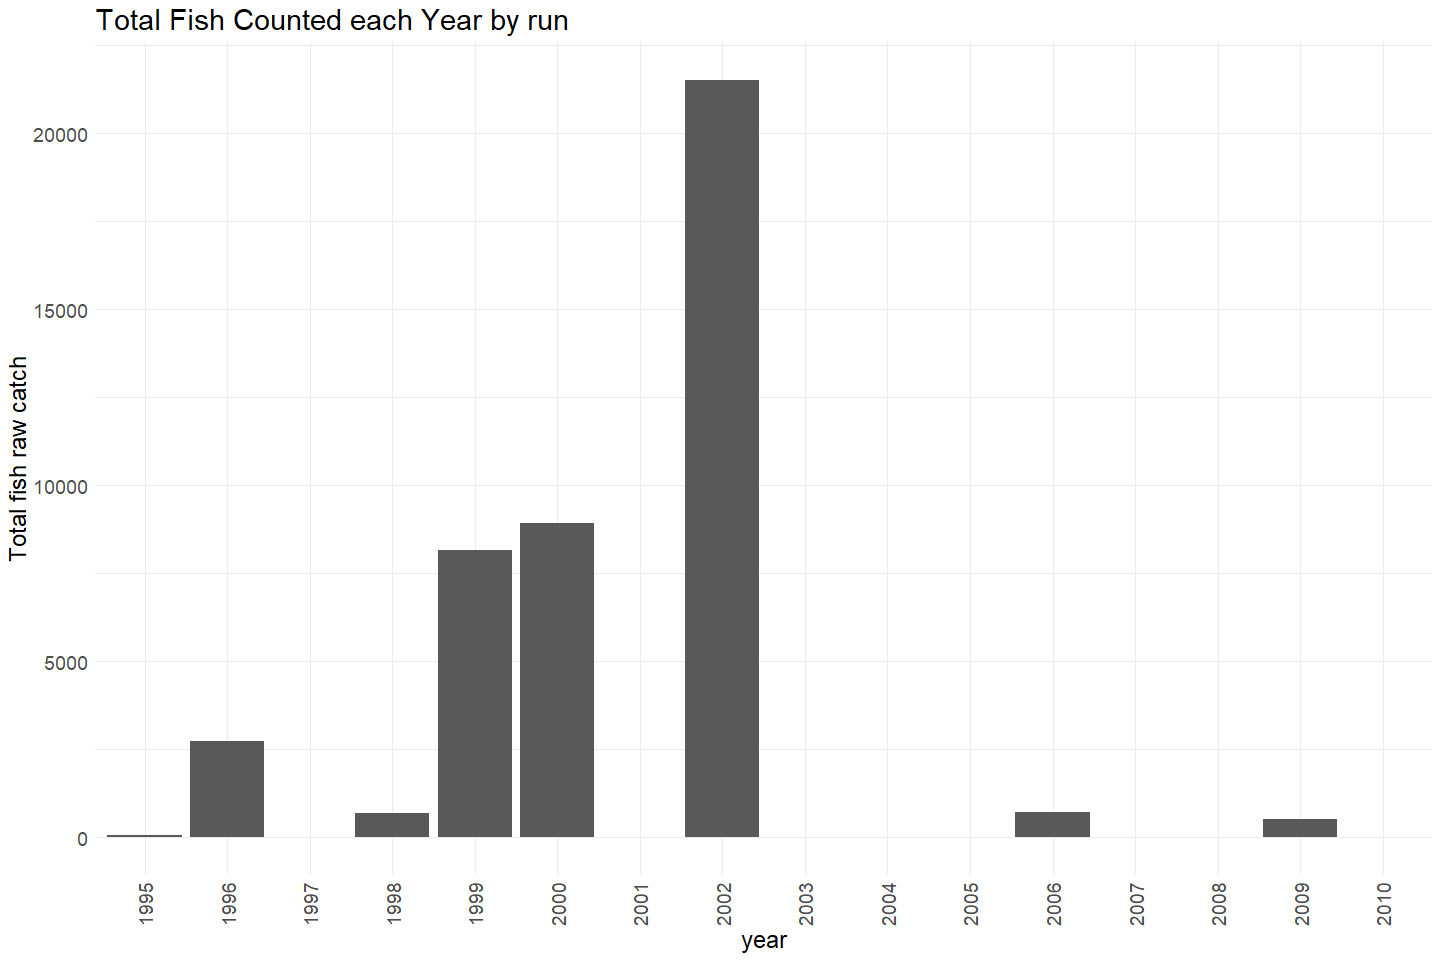
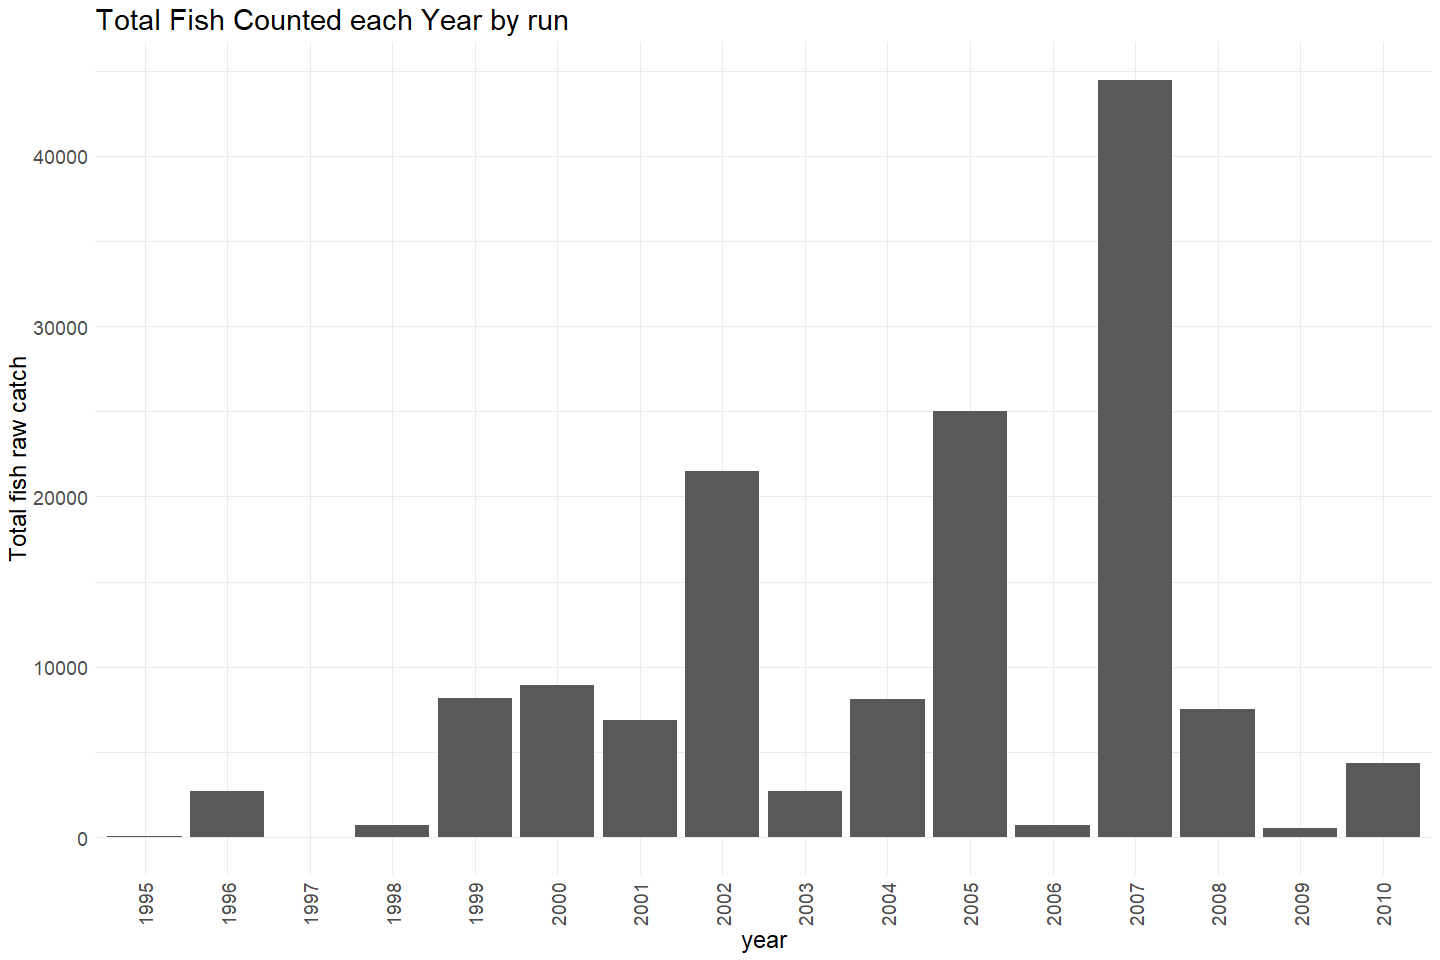
Adds na.rm = T for summarize statement

diff --git a/scripts/rst/mill-creek/mill_creek_rst_qc.md b/scripts/rst/mill-creek/mill_creek_rst_qc.md
@@ -129,7 +129,7 @@ cleaner_rst_data %>% select_if(is.numeric) %>% colnames()
 ``` r
 cleaner_rst_data %>% 
   group_by(date) %>%
-  summarise(total_daily_catch = sum(count)) %>%
+  summarise(total_daily_catch = sum(count, na.rm = T)) %>%
   mutate(water_year = ifelse(month(date) %in% 10:12, year(date) + 1, year(date))) %>% 
   left_join(sac_indices) %>%
   mutate(year = as.factor(year(date)),
@@ -160,7 +160,7 @@ Early years looks like sampling happened infrequently.
 cleaner_rst_data  %>%
   mutate(year = as.factor(year(date))) %>%
   group_by(year) %>%
-  summarise(total_yearly_catch = sum(count)) %>%
+  summarise(total_yearly_catch = sum(count, na.rm = T)) %>%
   ggplot(aes(x = year, y = total_yearly_catch)) + 
   geom_col() + 
   theme_minimal() +
